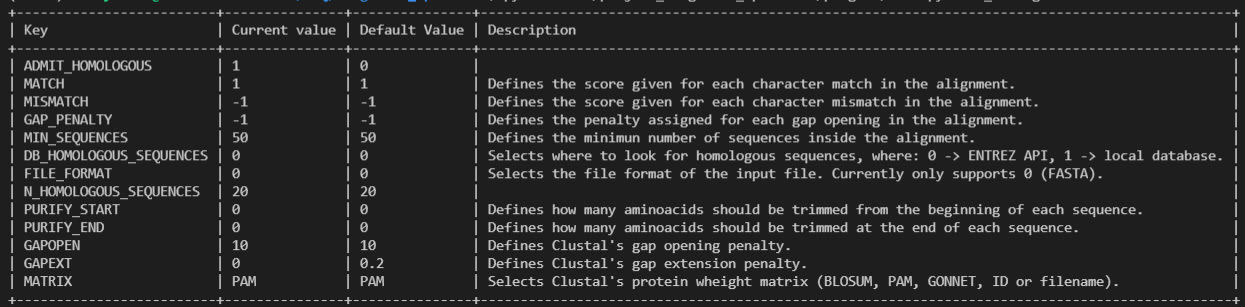
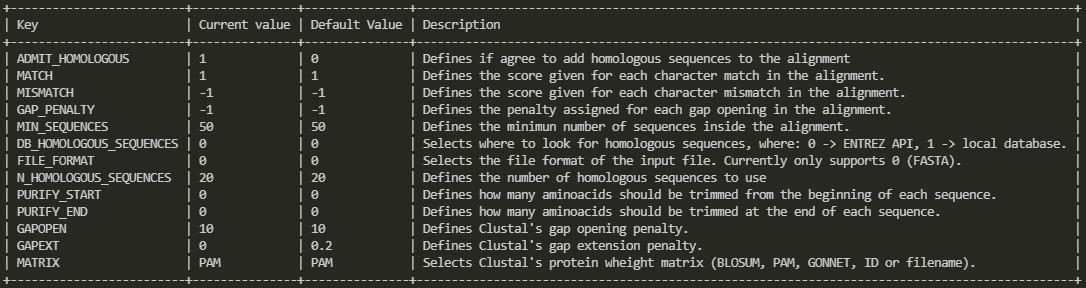
Nuevas descripciones

diff --git a/src/project_alignment_optimizer/program/constants.py b/src/project_alignment_optimizer/program/constants.py
@@ -36,13 +36,13 @@ GAPEXT = "GAPEXT"
 GAPEXT_DESCRIPTION = "Defines Clustal's gap extension penalty."
 
 HOMOLOGOUS_SEQUENCES_PATH = 'HOMOLOGOUS_SEQUENCES_PATH'
-HOMOLOGOUS_SEQUENCES_PATH_DESCRIPTION = ""
+HOMOLOGOUS_SEQUENCES_PATH_DESCRIPTION = "Defines the path where the homologous sequences are found"
 
 N_HOMOLOGOUS_SEQUENCES = "N_HOMOLOGOUS_SEQUENCES"
-N_HOMOLOGOUS_SEQUENCES_DESCRIPTION = ""
+N_HOMOLOGOUS_SEQUENCES_DESCRIPTION = "Defines the number of homologous sequences to use"
 
 ADMIT_HOMOLOGOUS = "ADMIT_HOMOLOGOUS"
-ADMIT_HOMOLOGOUS_DESCRIPTION = ""
+ADMIT_HOMOLOGOUS_DESCRIPTION = "Defines if agree to add homologous sequences to the alignment"
 ADMIT_HOMOLOGOUS_TYPE = {0: 'No', 1: 'Yes'}
 
 PURIFY_START = 'PURIFY_START'
